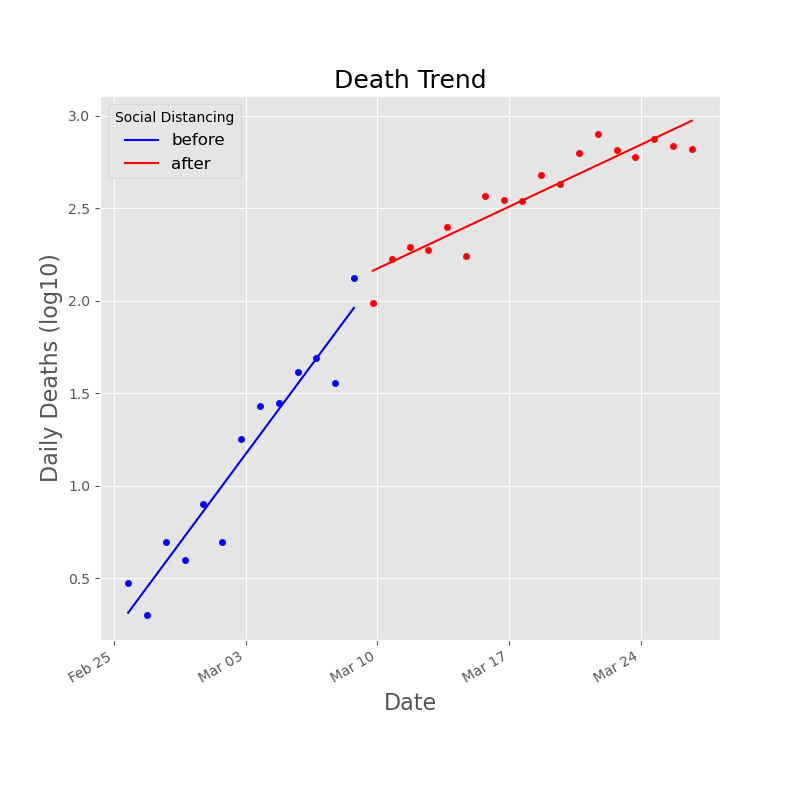
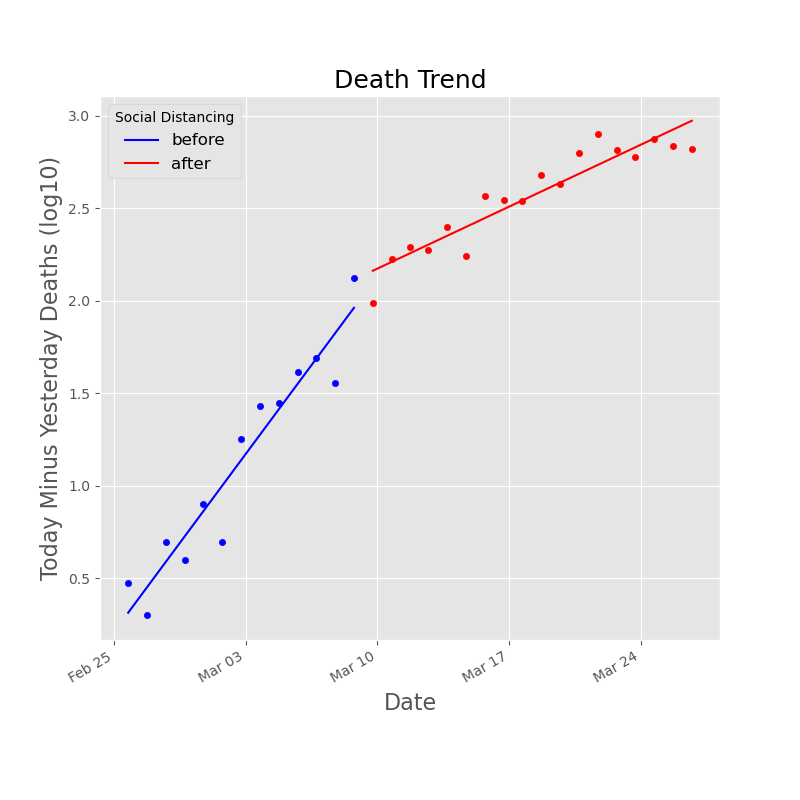
add toc to notebook

Changed region(s): [[0.0312, 0.3125, 0.0938, 0.7188], [0.0312, 0.1875, 0.0938, 0.2812]]

diff --git a/DataVis.html b/DataVis.html
@@ -13198,26 +13198,29 @@ Already up-to-date.
 </div>
 <div class="cell border-box-sizing code_cell rendered">
 <div class="input">
-<div class="prompt input_prompt">In&nbsp;[5]:</div>
+<div class="prompt input_prompt">In&nbsp;[21]:</div>
 <div class="inner_cell">
     <div class="input_area">
 <div class=" highlight hl-ipython3"><pre><span></span><span class="n">df</span> <span class="o">=</span> <span class="n">pd</span><span class="o">.</span><span class="n">read_csv</span><span class="p">(</span><span class="n">os</span><span class="o">.</span><span class="n">path</span><span class="o">.</span><span class="n">join</span><span class="p">(</span><span class="s1">&#39;dati-andamento-nazionale&#39;</span><span class="p">,</span>
                                <span class="s1">&#39;dpc-covid19-ita-andamento-nazionale.csv&#39;</span><span class="p">))</span>
 <span class="n">df</span><span class="o">.</span><span class="n">data</span> <span class="o">=</span> <span class="n">pd</span><span class="o">.</span><span class="n">to_datetime</span><span class="p">(</span><span class="n">df</span><span class="o">.</span><span class="n">data</span><span class="p">)</span>
 <span class="n">df</span><span class="p">[</span><span class="s1">&#39;terapia_intensiva_change&#39;</span><span class="p">]</span><span class="o">=</span><span class="n">df</span><span class="p">[</span><span class="s1">&#39;terapia_intensiva&#39;</span><span class="p">]</span><span class="o">-</span><span class="n">df</span><span class="p">[</span><span class="s1">&#39;terapia_intensiva&#39;</span><span class="p">]</span><span class="o">.</span><span class="n">shift</span><span class="p">(</span><span class="mi">1</span><span class="p">)</span>
-<span class="n">df</span><span class="p">[</span><span class="s1">&#39;deceduti_change&#39;</span><span class="p">]</span><span class="o">=</span><span class="n">df</span><span class="p">[</span><span class="s1">&#39;deceduti&#39;</span><span class="p">]</span><span class="o">-</span><span class="n">df</span><span class="p">[</span><span class="s1">&#39;deceduti&#39;</span><span class="p">]</span><span class="o">.</span><span class="n">shift</span><span class="p">(</span><span class="mi">1</span><span class="p">)</span>
-<span class="n">df</span><span class="p">[</span><span class="s1">&#39;not_admitted_ratio&#39;</span><span class="p">]</span> <span class="o">=</span> <span class="n">df</span><span class="p">[</span><span class="s1">&#39;deceduti_change&#39;</span><span class="p">]</span><span class="o">/</span><span class="p">(</span><span class="n">df</span><span class="p">[</span><span class="s1">&#39;terapia_intensiva_change&#39;</span><span class="p">])</span>
-<span class="n">df</span><span class="p">[</span><span class="s1">&#39;not_admitted&#39;</span><span class="p">]</span> <span class="o">=</span> <span class="n">df</span><span class="p">[</span><span class="s1">&#39;deceduti_change&#39;</span><span class="p">]</span><span class="o">-</span><span class="p">(</span><span class="n">df</span><span class="p">[</span><span class="s1">&#39;terapia_intensiva_change&#39;</span><span class="p">])</span>
+<span class="n">df</span><span class="p">[</span><span class="s1">&#39;deceduti_daily&#39;</span><span class="p">]</span><span class="o">=</span><span class="n">df</span><span class="p">[</span><span class="s1">&#39;deceduti&#39;</span><span class="p">]</span><span class="o">-</span><span class="n">df</span><span class="p">[</span><span class="s1">&#39;deceduti&#39;</span><span class="p">]</span><span class="o">.</span><span class="n">shift</span><span class="p">(</span><span class="mi">1</span><span class="p">)</span>
+<span class="n">df</span><span class="p">[</span><span class="s1">&#39;not_admitted_ratio&#39;</span><span class="p">]</span> <span class="o">=</span> <span class="n">df</span><span class="p">[</span><span class="s1">&#39;deceduti_daily&#39;</span><span class="p">]</span><span class="o">/</span><span class="p">(</span><span class="n">df</span><span class="p">[</span><span class="s1">&#39;terapia_intensiva_change&#39;</span><span class="p">])</span>
+<span class="n">df</span><span class="p">[</span><span class="s1">&#39;not_admitted&#39;</span><span class="p">]</span> <span class="o">=</span> <span class="n">df</span><span class="p">[</span><span class="s1">&#39;deceduti_daily&#39;</span><span class="p">]</span><span class="o">-</span><span class="p">(</span><span class="n">df</span><span class="p">[</span><span class="s1">&#39;terapia_intensiva_change&#39;</span><span class="p">])</span>
 <span class="n">df</span><span class="o">.</span><span class="n">drop</span><span class="p">([</span><span class="s1">&#39;stato&#39;</span><span class="p">],</span><span class="n">axis</span><span class="o">=</span><span class="mi">1</span><span class="p">,</span><span class="n">inplace</span><span class="o">=</span><span class="kc">True</span><span class="p">)</span>
 <span class="n">df</span><span class="o">.</span><span class="n">drop</span><span class="p">([</span><span class="s1">&#39;data&#39;</span><span class="p">],</span><span class="n">axis</span><span class="o">=</span><span class="mi">1</span><span class="p">)</span><span class="o">.</span><span class="n">tail</span><span class="p">()</span>
 
 <span class="n">yR</span><span class="o">=</span><span class="s1">&#39;nuovi_attualmente_positivi&#39;</span>
 <span class="n">df</span><span class="p">[</span><span class="n">yR</span><span class="o">+</span><span class="s1">&#39;_log&#39;</span><span class="p">]</span><span class="o">=</span><span class="n">np</span><span class="o">.</span><span class="n">log10</span><span class="p">(</span><span class="n">df</span><span class="p">[</span><span class="n">yR</span><span class="p">])</span>
 
-<span class="n">yR</span><span class="o">=</span><span class="s1">&#39;deceduti_change&#39;</span>
+<span class="n">yR</span><span class="o">=</span><span class="s1">&#39;deceduti_daily&#39;</span>
 <span class="n">df</span><span class="p">[</span><span class="n">yR</span><span class="o">+</span><span class="s1">&#39;_log&#39;</span><span class="p">]</span><span class="o">=</span><span class="n">np</span><span class="o">.</span><span class="n">log10</span><span class="p">(</span><span class="n">df</span><span class="p">[</span><span class="n">yR</span><span class="p">])</span>
 
 <span class="n">yR</span><span class="o">=</span><span class="s1">&#39;terapia_intensiva&#39;</span>
+<span class="n">df</span><span class="p">[</span><span class="n">yR</span><span class="o">+</span><span class="s1">&#39;_log&#39;</span><span class="p">]</span><span class="o">=</span><span class="n">np</span><span class="o">.</span><span class="n">log10</span><span class="p">(</span><span class="n">df</span><span class="p">[</span><span class="n">yR</span><span class="p">])</span>
+
+<span class="n">yR</span><span class="o">=</span><span class="s1">&#39;deceduti&#39;</span>
 <span class="n">df</span><span class="p">[</span><span class="n">yR</span><span class="o">+</span><span class="s1">&#39;_log&#39;</span><span class="p">]</span><span class="o">=</span><span class="n">np</span><span class="o">.</span><span class="n">log10</span><span class="p">(</span><span class="n">df</span><span class="p">[</span><span class="n">yR</span><span class="p">])</span>
 </pre></div>
 
@@ -13235,10 +13238,10 @@ Already up-to-date.
 </div>
 <div class="cell border-box-sizing code_cell rendered">
 <div class="input">
-<div class="prompt input_prompt">In&nbsp;[10]:</div>
+<div class="prompt input_prompt">In&nbsp;[23]:</div>
 <div class="inner_cell">
     <div class="input_area">
-<div class=" highlight hl-ipython3"><pre><span></span><span class="n">yR</span><span class="o">=</span><span class="s1">&#39;deceduti_change&#39;</span>
+<div class=" highlight hl-ipython3"><pre><span></span><span class="n">yR</span><span class="o">=</span><span class="s1">&#39;deceduti_daily&#39;</span>
 <span class="n">df</span><span class="o">=</span><span class="n">df</span><span class="p">[</span><span class="o">~</span><span class="n">df</span><span class="p">[</span><span class="n">yR</span><span class="o">+</span><span class="s1">&#39;_log&#39;</span><span class="p">]</span><span class="o">.</span><span class="n">isna</span><span class="p">()]</span>
 <span class="n">before</span> <span class="o">=</span> <span class="n">df</span><span class="p">[</span><span class="n">df</span><span class="p">[</span><span class="s1">&#39;data&#39;</span><span class="p">]</span><span class="o">&lt;</span><span class="s1">&#39;2020-03-9&#39;</span><span class="p">]</span>
 <span class="n">after</span> <span class="o">=</span> <span class="n">df</span><span class="p">[</span><span class="n">df</span><span class="p">[</span><span class="s1">&#39;data&#39;</span><span class="p">]</span><span class="o">&gt;</span><span class="s1">&#39;2020-03-9&#39;</span><span class="p">]</span>
@@ -13285,7 +13288,7 @@ Already up-to-date.
 
 <span class="c1">#plt.xticks(rotation=70,ha=&#39;right&#39;)</span>
 <span class="n">plt</span><span class="o">.</span><span class="n">xlabel</span><span class="p">(</span><span class="s1">&#39;Date&#39;</span><span class="p">,</span> <span class="n">fontsize</span><span class="o">=</span><span class="s1">&#39;16&#39;</span><span class="p">)</span>
-<span class="n">plt</span><span class="o">.</span><span class="n">ylabel</span><span class="p">(</span><span class="s1">&#39;Daily Deaths (log10)&#39;</span><span class="p">,</span><span class="n">fontsize</span><span class="o">=</span><span class="s1">&#39;16&#39;</span><span class="p">)</span>
+<span class="n">plt</span><span class="o">.</span><span class="n">ylabel</span><span class="p">(</span><span class="s1">&#39;Today Minus Yesterday Deaths (log10)&#39;</span><span class="p">,</span><span class="n">fontsize</span><span class="o">=</span><span class="s1">&#39;16&#39;</span><span class="p">)</span>
 <span class="n">plt</span><span class="o">.</span><span class="n">title</span><span class="p">(</span><span class="s1">&#39;Death Trend&#39;</span><span class="p">,</span><span class="n">fontsize</span><span class="o">=</span><span class="s1">&#39;18&#39;</span><span class="p">)</span>
 <span class="n">plt</span><span class="o">.</span><span class="n">savefig</span><span class="p">(</span><span class="s1">&#39;Fig1.png&#39;</span><span class="p">)</span>
 </pre></div>
@@ -13325,7 +13328,7 @@ Already up-to-date.
 </div>
 <div class="cell border-box-sizing code_cell rendered">
 <div class="input">
-<div class="prompt input_prompt">In&nbsp;[7]:</div>
+<div class="prompt input_prompt">In&nbsp;[24]:</div>
 <div class="inner_cell">
     <div class="input_area">
 <div class=" highlight hl-ipython3"><pre><span></span><span class="c1">#x.min()</span>
@@ -13338,7 +13341,7 @@ Already up-to-date.
 </div>
 <div class="cell border-box-sizing code_cell rendered">
 <div class="input">
-<div class="prompt input_prompt">In&nbsp;[8]:</div>
+<div class="prompt input_prompt">In&nbsp;[25]:</div>
 <div class="inner_cell">
     <div class="input_area">
 <div class=" highlight hl-ipython3"><pre><span></span><span class="n">plt</span><span class="o">.</span><span class="n">style</span><span class="o">.</span><span class="n">use</span><span class="p">(</span><span class="s1">&#39;default&#39;</span><span class="p">)</span>
@@ -13490,7 +13493,7 @@ Already up-to-date.
 </div>
 <div class="cell border-box-sizing code_cell rendered">
 <div class="input">
-<div class="prompt input_prompt">In&nbsp;[&nbsp;]:</div>
+<div class="prompt input_prompt">In&nbsp;[11]:</div>
 <div class="inner_cell">
     <div class="input_area">
 <div class=" highlight hl-ipython3"><pre><span></span><span class="o">!</span>jupyter nbconvert --to html_toc DataVis.ipynb
@@ -13500,10 +13503,33 @@ Already up-to-date.
 </div>
 </div>
 
+<div class="output_wrapper">
+<div class="output">
+
+
+<div class="output_area">
+
+    <div class="prompt"></div>
+
+
+<div class="output_subarea output_stream output_stdout output_text">
+<pre>[NbConvertApp] Converting notebook DataVis.ipynb to html_toc
+[NbConvertApp] Support files will be in DataVis_files/
+[NbConvertApp] Making directory DataVis_files
+[NbConvertApp] Making directory DataVis_files
+[NbConvertApp] Making directory DataVis_files
+[NbConvertApp] Writing 312727 bytes to DataVis.html
+</pre>
+</div>
+</div>
+
+</div>
+</div>
+
 </div>
 <div class="cell border-box-sizing code_cell rendered">
 <div class="input">
-<div class="prompt input_prompt">In&nbsp;[&nbsp;]:</div>
+<div class="prompt input_prompt">In&nbsp;[12]:</div>
 <div class="inner_cell">
     <div class="input_area">
 <div class=" highlight hl-ipython3"><pre><span></span><span class="o">!</span>git add DataVis*
@@ -13513,6 +13539,49 @@ Already up-to-date.
 </pre></div>
 
     </div>
+</div>
+</div>
+
+<div class="output_wrapper">
+<div class="output">
+
+
+<div class="output_area">
+
+    <div class="prompt"></div>
+
+
+<div class="output_subarea output_stream output_stdout output_text">
+<pre>[master 77e02f1] add toc to notebook
+ Committer: Michele Tinti &lt;mtinti@ls29490.local&gt;
+Your name and email address were configured automatically based
+on your username and hostname. Please check that they are accurate.
+You can suppress this message by setting them explicitly. Run the
+following command and follow the instructions in your editor to edit
+your configuration file:
+
+    git config --global --edit
+
+After doing this, you may fix the identity used for this commit with:
+
+    git commit --amend --reset-author
+
+ 4 files changed, 59 insertions(+), 158 deletions(-)
+ rewrite DataVis_files/DataVis_8_0.png (99%)
+ rewrite Fig1.png (99%)
+Counting objects: 7, done.
+Delta compression using up to 8 threads.
+Compressing objects: 100% (7/7), done.
+Writing objects: 100% (7/7), 110.58 KiB | 0 bytes/s, done.
+Total 7 (delta 4), reused 0 (delta 0)
+remote: Resolving deltas: 100% (4/4), completed with 4 local objects.
+To https://github.com/mtinti/COVID-19.git
+   877b25a..77e02f1  master -&gt; master
+Branch master set up to track remote branch master from origin.
+</pre>
+</div>
+</div>
+
 </div>
 </div>
 
